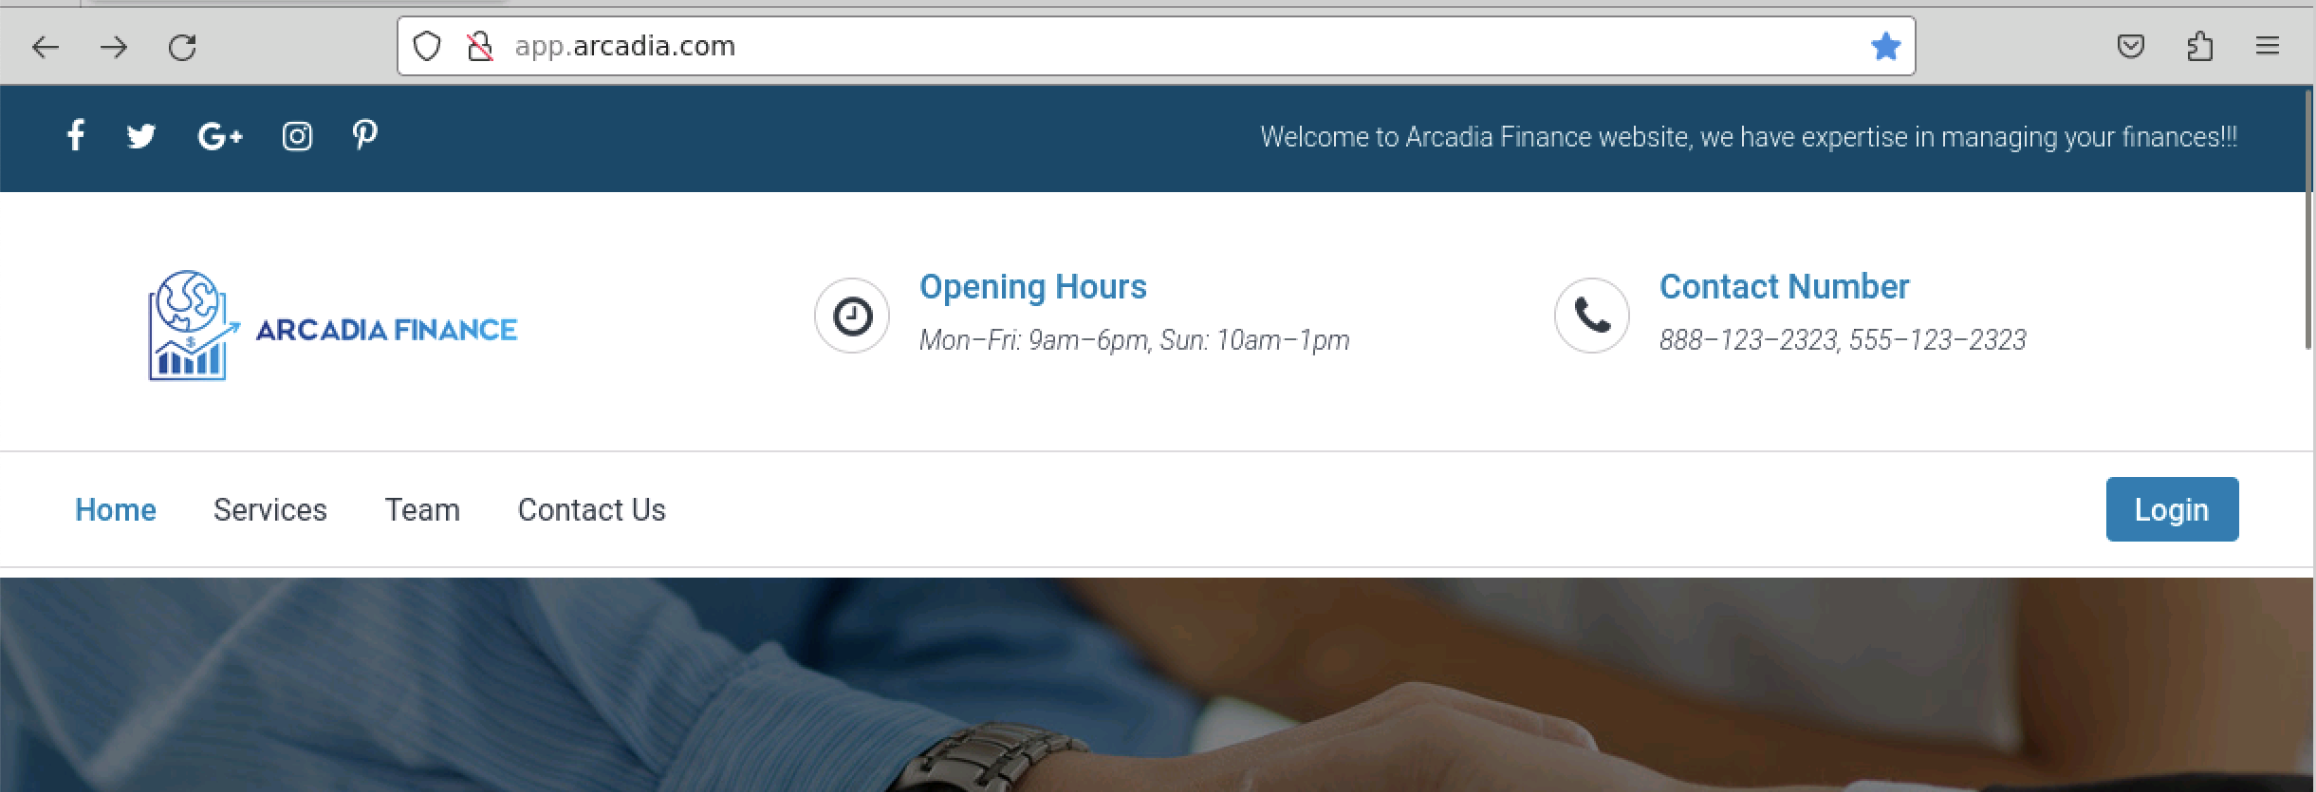
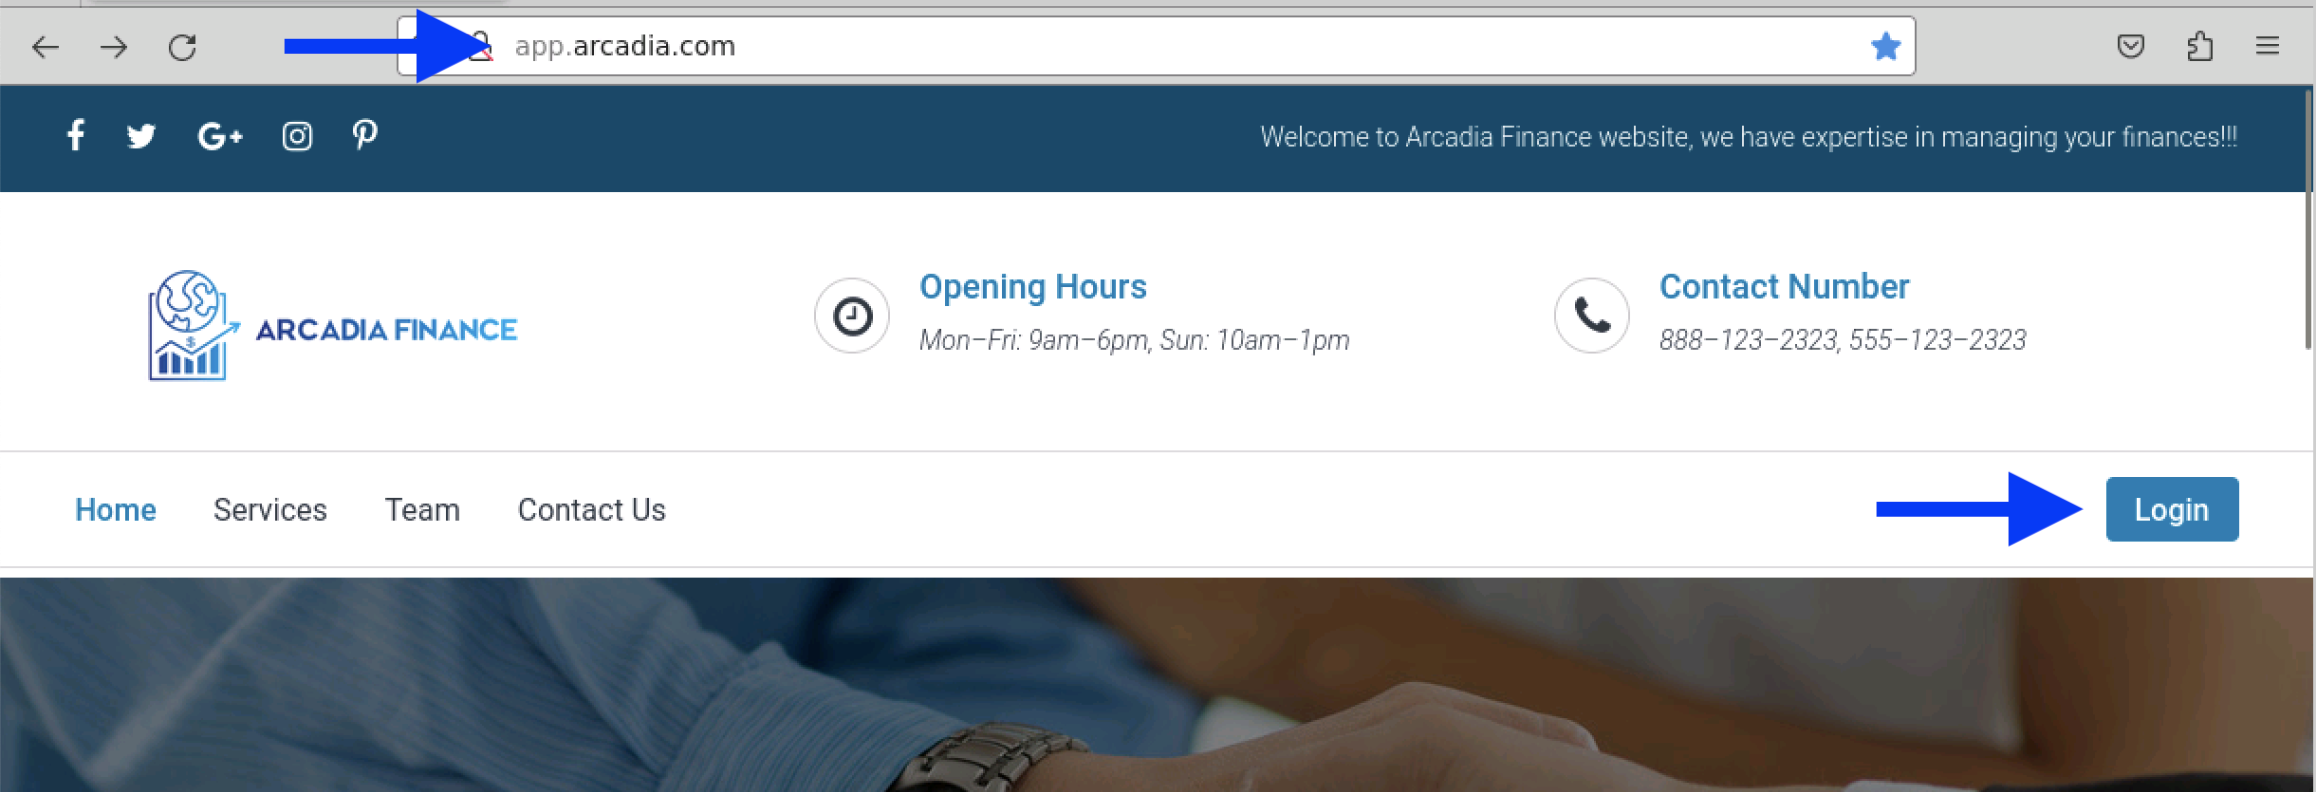
a

Changed region(s): [[0.8083, 0.6061, 0.9016, 0.697], [0.1244, 0.0, 0.2176, 0.0909]]

diff --git a/docs/source/waf-xss-test.rst b/docs/source/waf-xss-test.rst
@@ -3,7 +3,7 @@ XSS Attack Test
 
 #. Open a terminal emulator and login to *APP* node 
 
-#. In *APP* node
+#. In *APP* node, hange working directory to ``/home/ubuntu/arcadia``
 
     .. code-block::
         
@@ -15,7 +15,7 @@ XSS Attack Test
 
       $ kubectl apply -f vs-2.yaml
 
-#. Open another terminal emulator and login to *APP* node then monitor the syslog
+#. Open another terminal emulator and login to *APP* node then monitor the syslog output
 
     .. code-block::
 
@@ -23,7 +23,7 @@ XSS Attack Test
 
       $ podname=`kubectl get pods | awk '/^syslog/{print $1}'`; kubectl exec -it $podname -- tail -f /var/log/messages
 
-#. From Firefox browser, open http://app.arcadia.com/ then click *Login* button
+#. From Firefox browser, open http://app.arcadia.com/ page then click *Login* button
 
     .. image:: img/test-a1.png
 
@@ -33,8 +33,10 @@ XSS Attack Test
 
     .. image:: img/test-a2.png
 
-#. *Rejected Request* page displayed in the browser and see the log match the support ID
+#. *Rejected Request* page displayed in the browser
 
     .. image:: img/test-a3.png
+
+    then see the log that match the support ID
 
     .. image:: img/test-a4.png
